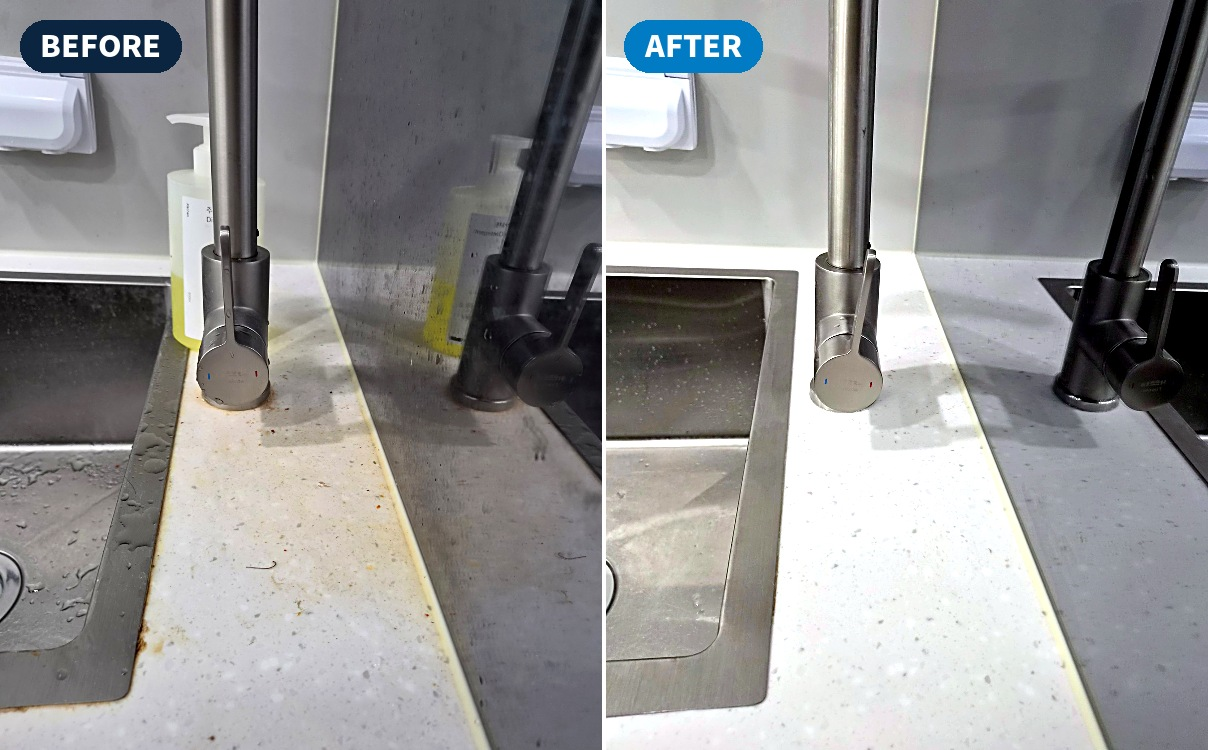
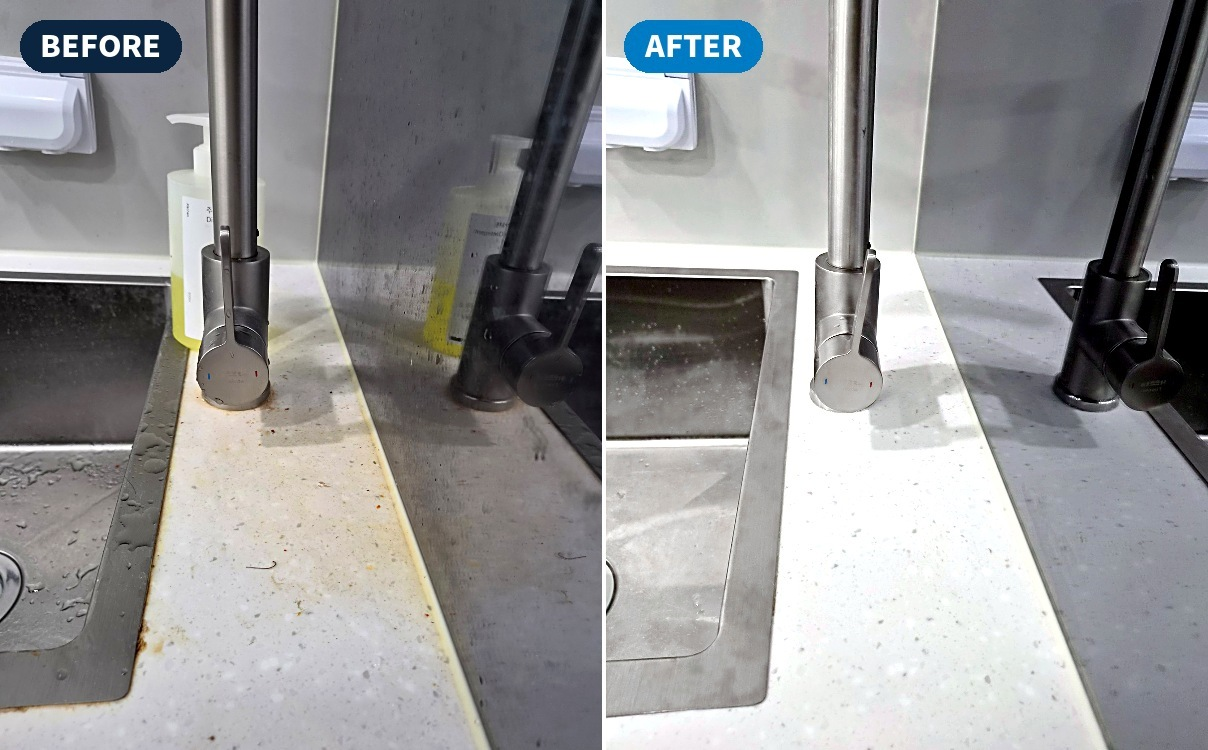
시공사례 7건 에프터 색 보정(누런 기 제거)
Claude-Session: https://claude.ai/code/session_01RMtuDgf6zyg7BwXGJ8nFNg

diff --git a/portfolio.html b/portfolio.html
@@ -31,7 +31,7 @@
   <nav class="mnav" id="mnav" aria-label="모바일 메뉴"><a href="service.html">서비스</a><a href="portfolio.html" class="on" aria-current="page">시공사례</a><a href="price.html">요금안내</a><a href="about.html">회사소개</a><a href="contact.html">문의</a><a href="location.html">서비스 지역</a><a href="notice.html">공지사항</a><a href="https://blog.naver.com/jungdoclean" target="_blank" rel="noopener">블로그</a></nav>
 </header>
 <main><section class="phero"><div class="wrap"><span class="eyebrow">REAL CASES</span><h1>말보다 사진으로 보여드립니다</h1><p class="lead">정도클린이 직접 작업한 실제 현장의 청소 전 · 후 모습입니다.</p><div class="anchors" role="group" aria-label="공간별 보기"><button class="f-tab" data-filter="all" aria-pressed="true">전체 50</button><button class="f-tab" data-filter="bath" aria-pressed="false">욕실 32</button><button class="f-tab" data-filter="kitchen" aria-pressed="false">주방 7</button><button class="f-tab" data-filter="fridge" aria-pressed="false">냉장고 3</button><button class="f-tab" data-filter="balcony" aria-pressed="false">베란다 1</button><button class="f-tab" data-filter="floor" aria-pressed="false">바닥 1</button><button class="f-tab" data-filter="window" aria-pressed="false">창틀 3</button><button class="f-tab" data-filter="cabinet" aria-pressed="false">수납장 1</button><button class="f-tab" data-filter="laundry" aria-pressed="false">세탁기 2</button></div></div></section>
-<section class="sec"><div class="wrap"><div class="pf-grid"><article class="pf" data-cat="bath"><button type="button" data-zoom="샤워부스 배수구 · 배수구 안쪽 · 검은 때 · 줄눈 얼룩 제거" aria-label="샤워부스 배수구 크게 보기"><img src="cases/case-47-drain-hair.jpg?v=261108" alt="샤워부스 배수구 청소 전후 비교" width="1208" height="750" loading="lazy"></button><div class="bd"><div><h3>샤워부스 배수구</h3><p>배수구 안쪽 · 검은 때 · 줄눈 얼룩 제거</p></div><span class="tagpill">욕실</span></div></article><article class="pf" data-cat="bath"><button type="button" data-zoom="변기 안쪽 · 누런 물때 제거" aria-label="변기 안쪽 크게 보기"><img src="cases/case-48-toilet-inner.jpg?v=261108" alt="변기 안쪽 청소 전후 비교" width="1208" height="750" loading="lazy"></button><div class="bd"><div><h3>변기 안쪽</h3><p>누런 물때 제거</p></div><span class="tagpill">욕실</span></div></article><article class="pf" data-cat="kitchen"><button type="button" data-zoom="주방 수전 주변 · 수전 아래 · 카운터 모서리 얼룩 · 물때 제거" aria-label="주방 수전 주변 크게 보기"><img src="cases/case-49-kitchen-faucet-base.jpg?v=261108" alt="주방 수전 주변 청소 전후 비교" width="1208" height="750" loading="lazy"></button><div class="bd"><div><h3>주방 수전 주변</h3><p>수전 아래 · 카운터 모서리 얼룩 · 물때 제거</p></div><span class="tagpill">주방</span></div></article><article class="pf" data-cat="bath"><button type="button" data-zoom="세면대 안쪽 · 노란 얼룩 · 머리카락 제거" aria-label="세면대 안쪽 크게 보기"><img src="cases/case-50-washbasin-inner.jpg?v=261108" alt="세면대 안쪽 청소 전후 비교" width="1208" height="750" loading="lazy"></button><div class="bd"><div><h3>세면대 안쪽</h3><p>노란 얼룩 · 머리카락 제거</p></div><span class="tagpill">욕실</span></div></article><article class="pf" data-cat="bath"><button type="button" data-zoom="욕실 바닥 · 바닥 타일 · 줄눈 · 배수구 주변 때 제거" aria-label="욕실 바닥 크게 보기"><img src="cases/case-51-bath-floor-grout.jpg?v=261108" alt="욕실 바닥 청소 전후 비교" width="1208" height="750" loading="lazy"></button><div class="bd"><div><h3>욕실 바닥</h3><p>바닥 타일 · 줄눈 · 배수구 주변 때 제거</p></div><span class="tagpill">욕실</span></div></article><article class="pf" data-cat="bath"><button type="button" data-zoom="샤워기 선반 · 수전 손잡이 · 선반 안쪽 · 손잡이 얼룩 제거" aria-label="샤워기 선반 · 수전 손잡이 크게 보기"><img src="cases/case-52-shower-shelf-handle.jpg?v=261108" alt="샤워기 선반 · 수전 손잡이 청소 전후 비교" width="1208" height="750" loading="lazy"></button><div class="bd"><div><h3>샤워기 선반 · 수전 손잡이</h3><p>선반 안쪽 · 손잡이 얼룩 제거</p></div><span class="tagpill">욕실</span></div></article><article class="pf" data-cat="bath"><button type="button" data-zoom="코너 선반 · 유리 흐림 제거, 금속 부분 정리" aria-label="코너 선반 크게 보기"><img src="cases/case-53-corner-glass-shelf.jpg?v=261108" alt="코너 선반 청소 전후 비교" width="1208" height="750" loading="lazy"></button><div class="bd"><div><h3>코너 선반</h3><p>유리 흐림 제거, 금속 부분 정리</p></div><span class="tagpill">욕실</span></div></article><article class="pf" data-cat="bath"><button type="button" data-zoom="환풍기 덮개 안쪽 · 먼지 · 얼룩 제거" aria-label="환풍기 덮개 안쪽 크게 보기"><img src="cases/case-46-vent-cover-inner.jpg?v=261106" alt="환풍기 덮개 안쪽 청소 전후 비교" width="1208" height="750" loading="lazy"></button><div class="bd"><div><h3>환풍기 덮개 안쪽</h3><p>먼지 · 얼룩 제거</p></div><span class="tagpill">욕실</span></div></article><article class="pf" data-cat="bath"><button type="button" data-zoom="환풍기 그릴 · 틈새 뭉친 먼지 제거" aria-label="환풍기 그릴 크게 보기"><img src="cases/case-45-vent-grille.jpg?v=261106" alt="환풍기 그릴 청소 전후 비교" width="1208" height="750" loading="lazy"></button><div class="bd"><div><h3>환풍기 그릴</h3><p>틈새 뭉친 먼지 제거</p></div><span class="tagpill">욕실</span></div></article><article class="pf" data-cat="bath"><button type="button" data-zoom="샤워부스 유리 · 물때 제거" aria-label="샤워부스 유리 크게 보기"><img src="cases/case-44-shower-glass-2.jpg?v=261105" alt="샤워부스 유리 물때 청소 전후 비교" width="1208" height="750" loading="lazy"></button><div class="bd"><div><h3>샤워부스 유리</h3><p>물때 제거</p></div><span class="tagpill">욕실</span></div></article><article class="pf" data-cat="kitchen"><button type="button" data-zoom="싱크대 · 물얼룩 · 스크래치 자국 정리" aria-label="싱크대 크게 보기"><img src="cases/case-43-kitchen-sink-4.jpg?v=261105" alt="싱크대 청소 전후 비교" width="1208" height="750" loading="lazy"></button><div class="bd"><div><h3>싱크대</h3><p>물얼룩 · 스크래치 자국 정리</p></div><span class="tagpill">주방</span></div></article><article class="pf" data-cat="laundry"><button type="button" data-zoom="세탁기 세제통 · 가루 잔여물 제거" aria-label="세탁기 세제통 크게 보기"><img src="cases/case-42-washer-detergent.jpg?v=261105" alt="세탁기 세제통 청소 전후 비교" width="1208" height="750" loading="lazy"></button><div class="bd"><div><h3>세탁기 세제통</h3><p>가루 잔여물 제거</p></div><span class="tagpill">세탁기</span></div></article><article class="pf" data-cat="bath"><button type="button" data-zoom="샤워선반 · 얼룩 · 물때 제거" aria-label="샤워선반 크게 보기"><img src="cases/case-41-shower-shelf.jpg?v=261105" alt="샤워선반 청소 전후 비교" width="1208" height="750" loading="lazy"></button><div class="bd"><div><h3>샤워선반</h3><p>얼룩 · 물때 제거</p></div><span class="tagpill">욕실</span></div></article><article class="pf" data-cat="bath"><button type="button" data-zoom="세면대 수전 · 물때 · 얼룩 제거" aria-label="세면대 수전 크게 보기"><img src="cases/case-40-faucet-2.jpg?v=261105" alt="세면대 수전 청소 전후 비교" width="1208" height="750" loading="lazy"></button><div class="bd"><div><h3>세면대 수전</h3><p>물때 · 얼룩 제거</p></div><span class="tagpill">욕실</span></div></article><article class="pf" data-cat="bath"><button type="button" data-zoom="샤워부스 배수구 · 머리카락 · 물때 · 찌든때 제거" aria-label="샤워부스 배수구 크게 보기"><img src="cases/case-01-shower-drain.jpg?v=261026" alt="샤워부스 배수구 청소 전후 비교" width="1208" height="750" loading="lazy"></button><div class="bd"><div><h3>샤워부스 배수구</h3><p>머리카락 · 물때 · 찌든때 제거</p></div><span class="tagpill">욕실</span></div></article><article class="pf" data-cat="bath"><button type="button" data-zoom="샤워부스 배수구 덮개 · 갈색 얼룩 · 찌든때 제거" aria-label="샤워부스 배수구 덮개 크게 보기"><img src="cases/case-30-shower-drain-3.jpg?v=261101" alt="샤워부스 배수구 덮개 청소 전후 비교" width="1208" height="750" loading="lazy"></button><div class="bd"><div><h3>샤워부스 배수구 덮개</h3><p>갈색 얼룩 · 찌든때 제거</p></div><span class="tagpill">욕실</span></div></article><article class="pf" data-cat="bath"><button type="button" data-zoom="세면대 아래 바닥 줄눈 · 줄눈 곰팡이 · 배수구 오염 제거" aria-label="세면대 아래 바닥 줄눈 크게 보기"><img src="cases/case-02-floor-grout.jpg?v=261026" alt="세면대 아래 바닥 줄눈 청소 전후 비교" width="1208" height="750" loading="lazy"></button><div class="bd"><div><h3>세면대 아래 바닥 줄눈</h3><p>줄눈 곰팡이 · 배수구 오염 제거</p></div><span class="tagpill">욕실</span></div></article><article class="pf" data-cat="bath"><button type="button" data-zoom="변기 주변 · 변기 황변 · 바닥 이물질 제거" aria-label="변기 주변 크게 보기"><img src="cases/case-03-toilet.jpg?v=261026" alt="변기 주변 청소 전후 비교" width="1208" height="750" loading="lazy"></button><div class="bd"><div><h3>변기 주변</h3><p>변기 황변 · 바닥 이물질 제거</p></div><span class="tagpill">욕실</span></div></article><article class="pf" data-cat="bath"><button type="button" data-zoom="욕실 전체 · 변기 · 세면대 · 바닥 줄눈" aria-label="욕실 전체 크게 보기"><img src="cases/case-04-bathroom.jpg?v=261026" alt="욕실 전체 청소 전후 비교" width="1208" height="750" loading="lazy"></button><div class="bd"><div><h3>욕실 전체</h3><p>변기 · 세면대 · 바닥 줄눈</p></div><span class="tagpill">욕실</span></div></article><article class="pf" data-cat="bath"><button type="button" data-zoom="욕실 세면대 · 도기 물때 · 수전 광택" aria-label="욕실 세면대 크게 보기"><img src="cases/case-05-washbasin.jpg?v=261026" alt="욕실 세면대 청소 전후 비교" width="1208" height="750" loading="lazy"></button><div class="bd"><div><h3>욕실 세면대</h3><p>도기 물때 · 수전 광택</p></div><span class="tagpill">욕실</span></div></article><article class="pf" data-cat="bath"><button type="button" data-zoom="욕실 코너선반 · 석회 물때 · 찌든때 제거" aria-label="욕실 코너선반 크게 보기"><img src="cases/case-10-corner-shelf.jpg?v=261026" alt="욕실 코너선반 청소 전후 비교" width="1208" height="750" loading="lazy"></button><div class="bd"><div><h3>욕실 코너선반</h3><p>석회 물때 · 찌든때 제거</p></div><span class="tagpill">욕실</span></div></article><article class="pf" data-cat="bath"><button type="button" data-zoom="샤워수전 · 비누받침 · 물때 · 석회 얼룩 제거, 크롬 광택 복원" aria-label="샤워수전 · 비누받침 크게 보기"><img src="cases/case-11-shower-fixture.jpg?v=261026" alt="샤워수전 · 비누받침 청소 전후 비교" width="1208" height="750" loading="lazy"></button><div class="bd"><div><h3>샤워수전 · 비누받침</h3><p>물때 · 석회 얼룩 제거, 크롬 광택 복원</p></div><span class="tagpill">욕실</span></div></article><article class="pf" data-cat="bath"><button type="button" data-zoom="욕실 세면대 상판 · 석회 물때 · 얼룩 제거" aria-label="욕실 세면대 상판 크게 보기"><img src="cases/case-13-vanity-top.jpg?v=261026" alt="욕실 세면대 상판 청소 전후 비교" width="1208" height="750" loading="lazy"></button><div class="bd"><div><h3>욕실 세면대 상판</h3><p>석회 물때 · 얼룩 제거</p></div><span class="tagpill">욕실</span></div></article><article class="pf" data-cat="bath"><button type="button" data-zoom="샤워부 바닥 줄눈 · 줄눈 곰팡이 · 찌든때 제거" aria-label="샤워부 바닥 줄눈 크게 보기"><img src="cases/case-14-shower-floor.jpg?v=261026" alt="샤워부 바닥 줄눈 청소 전후 비교" width="1208" height="750" loading="lazy"></button><div class="bd"><div><h3>샤워부 바닥 줄눈</h3><p>줄눈 곰팡이 · 찌든때 제거</p></div><span class="tagpill">욕실</span></div></article><article class="pf" data-cat="bath"><button type="button" data-zoom="욕실 유리 코너선반 · 물때 · 메탈 얼룩 제거" aria-label="욕실 유리 코너선반 크게 보기"><img src="cases/case-15-glass-shelf.jpg?v=261026" alt="욕실 유리 코너선반 청소 전후 비교" width="1208" height="750" loading="lazy"></button><div class="bd"><div><h3>욕실 유리 코너선반</h3><p>물때 · 메탈 얼룩 제거</p></div><span class="tagpill">욕실</span></div></article><article class="pf" data-cat="bath"><button type="button" data-zoom="샤워부스 유리문 · 석회 물때 · 찌든때 제거" aria-label="샤워부스 유리문 크게 보기"><img src="cases/case-16-shower-glass.jpg?v=261026" alt="샤워부스 유리문 청소 전후 비교" width="1208" height="750" loading="lazy"></button><div class="bd"><div><h3>샤워부스 유리문</h3><p>석회 물때 · 찌든때 제거</p></div><span class="tagpill">욕실</span></div></article><article class="pf" data-cat="bath"><button type="button" data-zoom="욕실 거울장 유리 · 물방울 자국 · 물때 제거" aria-label="욕실 거울장 유리 크게 보기"><img src="cases/case-22-mirror-cabinet.jpg?v=261028" alt="욕실 거울장 유리 청소 전후 비교" width="1208" height="750" loading="lazy"></button><div class="bd"><div><h3>욕실 거울장 유리</h3><p>물방울 자국 · 물때 제거</p></div><span class="tagpill">욕실</span></div></article><article class="pf" data-cat="bath"><button type="button" data-zoom="샤워부스 유리문 · 내부 · 뿌연 물때 제거, 유리 투명도 복원" aria-label="샤워부스 유리문 · 내부 크게 보기"><img src="cases/case-23-shower-glass-door.jpg?v=261028" alt="샤워부스 유리문 · 내부 청소 전후 비교" width="1208" height="750" loading="lazy"></button><div class="bd"><div><h3>샤워부스 유리문 · 내부</h3><p>뿌연 물때 제거, 유리 투명도 복원</p></div><span class="tagpill">욕실</span></div></article><article class="pf" data-cat="bath"><button type="button" data-zoom="샤워수전 · 손잡이 · 물때 · 얼룩 제거, 크롬 광택 복원" aria-label="샤워수전 · 손잡이 크게 보기"><img src="cases/case-24-shower-faucet-handle.jpg?v=261028" alt="샤워수전 · 손잡이 청소 전후 비교" width="1208" height="750" loading="lazy"></button><div class="bd"><div><h3>샤워수전 · 손잡이</h3><p>물때 · 얼룩 제거, 크롬 광택 복원</p></div><span class="tagpill">욕실</span></div></article><article class="pf" data-cat="bath"><button type="button" data-zoom="세면대 수전 · 배수구 · 물때 · 얼룩 제거, 광택 복원" aria-label="세면대 수전 · 배수구 크게 보기"><img src="cases/case-32-faucet.jpg?v=261104" alt="세면대 수전 · 배수구 청소 전후 비교" width="1208" height="750" loading="lazy"></button><div class="bd"><div><h3>세면대 수전 · 배수구</h3><p>물때 · 얼룩 제거, 광택 복원</p></div><span class="tagpill">욕실</span></div></article><article class="pf" data-cat="bath"><button type="button" data-zoom="샤워수전 · 레일 · 물때 · 얼룩 제거, 광택 복원" aria-label="샤워수전 · 레일 크게 보기"><img src="cases/case-33-shower-rail.jpg?v=261104" alt="샤워수전 · 레일 청소 전후 비교" width="1208" height="750" loading="lazy"></button><div class="bd"><div><h3>샤워수전 · 레일</h3><p>물때 · 얼룩 제거, 광택 복원</p></div><span class="tagpill">욕실</span></div></article><article class="pf" data-cat="bath"><button type="button" data-zoom="욕실 배수구 · 바닥 · 머리카락 · 줄눈 · 물때 제거" aria-label="욕실 배수구 · 바닥 크게 보기"><img src="cases/case-39-bath-drain-floor.jpg?v=261105" alt="욕실 배수구 바닥 청소 전후 비교" width="1208" height="750" loading="lazy"></button><div class="bd"><div><h3>욕실 배수구 · 바닥</h3><p>머리카락 · 줄눈 · 물때 제거</p></div><span class="tagpill">욕실</span></div></article><article class="pf" data-cat="bath"><button type="button" data-zoom="샤워부스 구석 타일 · 배수구 · 줄눈 누런 때 · 물때 제거" aria-label="샤워부스 구석 타일 · 배수구 크게 보기"><img src="cases/case-27-shower-corner-tile.jpg?v=261029" alt="샤워부스 구석 타일 · 배수구 청소 전후 비교" width="1208" height="750" loading="lazy"></button><div class="bd"><div><h3>샤워부스 구석 타일 · 배수구</h3><p>줄눈 누런 때 · 물때 제거</p></div><span class="tagpill">욕실</span></div></article><article class="pf" data-cat="bath"><button type="button" data-zoom="환풍구 덮개 · 그릴 · 곰팡이 · 먼지 제거" aria-label="환풍구 덮개 · 그릴 크게 보기"><img src="cases/case-20-vent-cover.jpg?v=261028" alt="환풍구 덮개 · 그릴 청소 전후 비교" width="1208" height="750" loading="lazy"></button><div class="bd"><div><h3>환풍구 덮개 · 그릴</h3><p>곰팡이 · 먼지 제거</p></div><span class="tagpill">욕실</span></div></article><article class="pf" data-cat="bath"><button type="button" data-zoom="환풍구 내부 · 팬 · 곰팡이 · 찌든 먼지 제거" aria-label="환풍구 내부 · 팬 크게 보기"><img src="cases/case-21-vent-fan.jpg?v=261028" alt="환풍구 내부 · 팬 청소 전후 비교" width="1208" height="750" loading="lazy"></button><div class="bd"><div><h3>환풍구 내부 · 팬</h3><p>곰팡이 · 찌든 먼지 제거</p></div><span class="tagpill">욕실</span></div></article><article class="pf" data-cat="kitchen"><button type="button" data-zoom="주방 수전 · 벽면 · 벽면 물때 · 검은 얼룩 제거" aria-label="주방 수전 · 벽면 크게 보기"><img src="cases/case-25-kitchen-faucet-wall.jpg?v=261028" alt="주방 수전 · 벽면 청소 전후 비교" width="1208" height="750" loading="lazy"></button><div class="bd"><div><h3>주방 수전 · 벽면</h3><p>벽면 물때 · 검은 얼룩 제거</p></div><span class="tagpill">주방</span></div></article><article class="pf" data-cat="kitchen"><button type="button" data-zoom="싱크볼 · 수전 · 물때 · 얼룩 제거, 스테인리스 광택 복원" aria-label="싱크볼 · 수전 크게 보기"><img src="cases/case-26-kitchen-sink-lizens.jpg?v=261028" alt="싱크볼 · 수전 청소 전후 비교" width="1208" height="750" loading="lazy"></button><div class="bd"><div><h3>싱크볼 · 수전</h3><p>물때 · 얼룩 제거, 스테인리스 광택 복원</p></div><span class="tagpill">주방</span></div></article><article class="pf" data-cat="kitchen"><button type="button" data-zoom="스테인리스 싱크볼 · 물자국 · 얼룩 제거, 광택 복원" aria-label="스테인리스 싱크볼 크게 보기"><img src="cases/case-12-kitchen-sink-2.jpg?v=261026" alt="스테인리스 싱크볼 청소 전후 비교" width="1208" height="750" loading="lazy"></button><div class="bd"><div><h3>스테인리스 싱크볼</h3><p>물자국 · 얼룩 제거, 광택 복원</p></div><span class="tagpill">주방</span></div></article><article class="pf" data-cat="kitchen"><button type="button" data-zoom="주방 싱크볼 · 배수구 · 음식물 찌꺼기 · 배수구 오염 제거" aria-label="주방 싱크볼 · 배수구 크게 보기"><img src="cases/case-17-kitchen-sink-3.jpg?v=261026" alt="주방 싱크볼 · 배수구 청소 전후 비교" width="1208" height="750" loading="lazy"></button><div class="bd"><div><h3>주방 싱크볼 · 배수구</h3><p>음식물 찌꺼기 · 배수구 오염 제거</p></div><span class="tagpill">주방</span></div></article><article class="pf" data-cat="kitchen"><button type="button" data-zoom="주방 싱크대 상판 · 싱크볼 · 상판 모서리 녹얼룩 · 싱크볼 얼룩 제거" aria-label="주방 싱크대 상판 · 싱크볼 크게 보기"><img src="cases/case-18-kitchen-sink-top.jpg?v=261026" alt="주방 싱크대 상판 · 싱크볼 청소 전후 비교" width="1208" height="750" loading="lazy"></button><div class="bd"><div><h3>주방 싱크대 상판 · 싱크볼</h3><p>상판 모서리 녹얼룩 · 싱크볼 얼룩 제거</p></div><span class="tagpill">주방</span></div></article><article class="pf" data-cat="floor"><button type="button" data-zoom="바닥 타일 · 발자국 · 검은 얼룩 제거" aria-label="바닥 타일 크게 보기"><img src="cases/case-28-floor-tile.jpg?v=261029" alt="바닥 타일 청소 전후 비교" width="1208" height="750" loading="lazy"></button><div class="bd"><div><h3>바닥 타일</h3><p>발자국 · 검은 얼룩 제거</p></div><span class="tagpill">바닥</span></div></article><article class="pf" data-cat="fridge"><button type="button" data-zoom="냉장고 내부 · 선반 · 야채칸 얼룩 제거" aria-label="냉장고 내부 크게 보기"><img src="cases/case-07-fridge.jpg?v=261026" alt="냉장고 내부 청소 전후 비교" width="1208" height="750" loading="lazy"></button><div class="bd"><div><h3>냉장고 내부</h3><p>선반 · 야채칸 얼룩 제거</p></div><span class="tagpill">냉장고</span></div></article><article class="pf" data-cat="fridge"><button type="button" data-zoom="냉장고 내부 · 서랍 · 얼룩 · 오염 제거" aria-label="냉장고 내부 · 서랍 크게 보기"><img src="cases/case-36-fridge-drawer.jpg?v=261104" alt="냉장고 내부 · 서랍 청소 전후 비교" width="1208" height="750" loading="lazy"></button><div class="bd"><div><h3>냉장고 내부 · 서랍</h3><p>얼룩 · 오염 제거</p></div><span class="tagpill">냉장고</span></div></article><article class="pf" data-cat="fridge"><button type="button" data-zoom="냉장고 하단 · 환풍구 · 먼지 · 흙 제거, 걸레받이까지" aria-label="냉장고 하단 · 환풍구 크게 보기"><img src="cases/case-38-fridge-bottom.jpg?v=261105" alt="냉장고 하단 환풍구 청소 전후 비교" width="1208" height="750" loading="lazy"></button><div class="bd"><div><h3>냉장고 하단 · 환풍구</h3><p>먼지 · 흙 제거, 걸레받이까지</p></div><span class="tagpill">냉장고</span></div></article><article class="pf" data-cat="balcony"><button type="button" data-zoom="베란다 통로 · 바닥 얼룩 · 먼지 제거" aria-label="베란다 통로 크게 보기"><img src="cases/case-09-balcony-hall.jpg?v=261026" alt="베란다 통로 청소 전후 비교" width="1208" height="750" loading="lazy"></button><div class="bd"><div><h3>베란다 통로</h3><p>바닥 얼룩 · 먼지 제거</p></div><span class="tagpill">베란다</span></div></article><article class="pf" data-cat="window"><button type="button" data-zoom="창문 레일 · 먼지 · 찌든때 제거, 레일 깨끗이" aria-label="창문 레일 크게 보기"><img src="cases/case-19-window-rail.jpg?v=261026" alt="창문 레일 청소 전후 비교" width="1208" height="750" loading="lazy"></button><div class="bd"><div><h3>창문 레일</h3><p>먼지 · 찌든때 제거, 레일 깨끗이</p></div><span class="tagpill">창틀</span></div></article><article class="pf" data-cat="window"><button type="button" data-zoom="샷시 창틀 · 틈새 · 먼지 · 오염 제거" aria-label="샷시 창틀 · 틈새 크게 보기"><img src="cases/case-34-window-frame.jpg?v=261104" alt="샷시 창틀 · 틈새 청소 전후 비교" width="1208" height="750" loading="lazy"></button><div class="bd"><div><h3>샷시 창틀 · 틈새</h3><p>먼지 · 오염 제거</p></div><span class="tagpill">창틀</span></div></article><article class="pf" data-cat="window"><button type="button" data-zoom="방충망 창틀 레일 · 먼지 · 물때 제거" aria-label="방충망 창틀 레일 크게 보기"><img src="cases/case-35-window-rail.jpg?v=261104" alt="방충망 창틀 레일 청소 전후 비교" width="1208" height="750" loading="lazy"></button><div class="bd"><div><h3>방충망 창틀 레일</h3><p>먼지 · 물때 제거</p></div><span class="tagpill">창틀</span></div></article><article class="pf" data-cat="cabinet"><button type="button" data-zoom="수납장 선반 · 자국 · 얼룩 제거" aria-label="수납장 선반 크게 보기"><img src="cases/case-31-shelf-residue.jpg?v=261101" alt="수납장 선반 청소 전후 비교" width="1208" height="750" loading="lazy"></button><div class="bd"><div><h3>수납장 선반</h3><p>자국 · 얼룩 제거</p></div><span class="tagpill">수납장</span></div></article><article class="pf" data-cat="laundry"><button type="button" data-zoom="세탁기 세제함 · 찌든때 · 곰팡이 제거" aria-label="세탁기 세제함 크게 보기"><img src="cases/case-37-washer-drawer.jpg?v=261104" alt="세탁기 세제함 청소 전후 비교" width="1208" height="750" loading="lazy"></button><div class="bd"><div><h3>세탁기 세제함</h3><p>찌든때 · 곰팡이 제거</p></div><span class="tagpill">세탁기</span></div></article></div><p class="pf-note">사진을 누르면 크게 볼 수 있습니다</p><div class="pf-cta"><p>이 사진처럼, 우리 집도 깨끗하게</p><div class="acts"><a class="btn btn-primary tel" href="tel:010-8209-6615">전화로 견적 받기</a><a class="btn btn-ghost sms" href="sms:010-8209-6615">문자로 사진 보내기</a><a class="btn btn-ghost" href="https://blog.naver.com/jungdoclean" target="_blank" rel="noopener">블로그에서 더 보기</a></div></div></div></section>
+<section class="sec"><div class="wrap"><div class="pf-grid"><article class="pf" data-cat="bath"><button type="button" data-zoom="샤워부스 배수구 · 배수구 안쪽 · 검은 때 · 줄눈 얼룩 제거" aria-label="샤워부스 배수구 크게 보기"><img src="cases/case-47-drain-hair.jpg?v=261108b" alt="샤워부스 배수구 청소 전후 비교" width="1208" height="750" loading="lazy"></button><div class="bd"><div><h3>샤워부스 배수구</h3><p>배수구 안쪽 · 검은 때 · 줄눈 얼룩 제거</p></div><span class="tagpill">욕실</span></div></article><article class="pf" data-cat="bath"><button type="button" data-zoom="변기 안쪽 · 누런 물때 제거" aria-label="변기 안쪽 크게 보기"><img src="cases/case-48-toilet-inner.jpg?v=261108b" alt="변기 안쪽 청소 전후 비교" width="1208" height="750" loading="lazy"></button><div class="bd"><div><h3>변기 안쪽</h3><p>누런 물때 제거</p></div><span class="tagpill">욕실</span></div></article><article class="pf" data-cat="kitchen"><button type="button" data-zoom="주방 수전 주변 · 수전 아래 · 카운터 모서리 얼룩 · 물때 제거" aria-label="주방 수전 주변 크게 보기"><img src="cases/case-49-kitchen-faucet-base.jpg?v=261108b" alt="주방 수전 주변 청소 전후 비교" width="1208" height="750" loading="lazy"></button><div class="bd"><div><h3>주방 수전 주변</h3><p>수전 아래 · 카운터 모서리 얼룩 · 물때 제거</p></div><span class="tagpill">주방</span></div></article><article class="pf" data-cat="bath"><button type="button" data-zoom="세면대 안쪽 · 노란 얼룩 · 머리카락 제거" aria-label="세면대 안쪽 크게 보기"><img src="cases/case-50-washbasin-inner.jpg?v=261108b" alt="세면대 안쪽 청소 전후 비교" width="1208" height="750" loading="lazy"></button><div class="bd"><div><h3>세면대 안쪽</h3><p>노란 얼룩 · 머리카락 제거</p></div><span class="tagpill">욕실</span></div></article><article class="pf" data-cat="bath"><button type="button" data-zoom="욕실 바닥 · 바닥 타일 · 줄눈 · 배수구 주변 때 제거" aria-label="욕실 바닥 크게 보기"><img src="cases/case-51-bath-floor-grout.jpg?v=261108b" alt="욕실 바닥 청소 전후 비교" width="1208" height="750" loading="lazy"></button><div class="bd"><div><h3>욕실 바닥</h3><p>바닥 타일 · 줄눈 · 배수구 주변 때 제거</p></div><span class="tagpill">욕실</span></div></article><article class="pf" data-cat="bath"><button type="button" data-zoom="샤워기 선반 · 수전 손잡이 · 선반 안쪽 · 손잡이 얼룩 제거" aria-label="샤워기 선반 · 수전 손잡이 크게 보기"><img src="cases/case-52-shower-shelf-handle.jpg?v=261108b" alt="샤워기 선반 · 수전 손잡이 청소 전후 비교" width="1208" height="750" loading="lazy"></button><div class="bd"><div><h3>샤워기 선반 · 수전 손잡이</h3><p>선반 안쪽 · 손잡이 얼룩 제거</p></div><span class="tagpill">욕실</span></div></article><article class="pf" data-cat="bath"><button type="button" data-zoom="코너 선반 · 유리 흐림 제거, 금속 부분 정리" aria-label="코너 선반 크게 보기"><img src="cases/case-53-corner-glass-shelf.jpg?v=261108b" alt="코너 선반 청소 전후 비교" width="1208" height="750" loading="lazy"></button><div class="bd"><div><h3>코너 선반</h3><p>유리 흐림 제거, 금속 부분 정리</p></div><span class="tagpill">욕실</span></div></article><article class="pf" data-cat="bath"><button type="button" data-zoom="환풍기 덮개 안쪽 · 먼지 · 얼룩 제거" aria-label="환풍기 덮개 안쪽 크게 보기"><img src="cases/case-46-vent-cover-inner.jpg?v=261106" alt="환풍기 덮개 안쪽 청소 전후 비교" width="1208" height="750" loading="lazy"></button><div class="bd"><div><h3>환풍기 덮개 안쪽</h3><p>먼지 · 얼룩 제거</p></div><span class="tagpill">욕실</span></div></article><article class="pf" data-cat="bath"><button type="button" data-zoom="환풍기 그릴 · 틈새 뭉친 먼지 제거" aria-label="환풍기 그릴 크게 보기"><img src="cases/case-45-vent-grille.jpg?v=261106" alt="환풍기 그릴 청소 전후 비교" width="1208" height="750" loading="lazy"></button><div class="bd"><div><h3>환풍기 그릴</h3><p>틈새 뭉친 먼지 제거</p></div><span class="tagpill">욕실</span></div></article><article class="pf" data-cat="bath"><button type="button" data-zoom="샤워부스 유리 · 물때 제거" aria-label="샤워부스 유리 크게 보기"><img src="cases/case-44-shower-glass-2.jpg?v=261105" alt="샤워부스 유리 물때 청소 전후 비교" width="1208" height="750" loading="lazy"></button><div class="bd"><div><h3>샤워부스 유리</h3><p>물때 제거</p></div><span class="tagpill">욕실</span></div></article><article class="pf" data-cat="kitchen"><button type="button" data-zoom="싱크대 · 물얼룩 · 스크래치 자국 정리" aria-label="싱크대 크게 보기"><img src="cases/case-43-kitchen-sink-4.jpg?v=261105" alt="싱크대 청소 전후 비교" width="1208" height="750" loading="lazy"></button><div class="bd"><div><h3>싱크대</h3><p>물얼룩 · 스크래치 자국 정리</p></div><span class="tagpill">주방</span></div></article><article class="pf" data-cat="laundry"><button type="button" data-zoom="세탁기 세제통 · 가루 잔여물 제거" aria-label="세탁기 세제통 크게 보기"><img src="cases/case-42-washer-detergent.jpg?v=261105" alt="세탁기 세제통 청소 전후 비교" width="1208" height="750" loading="lazy"></button><div class="bd"><div><h3>세탁기 세제통</h3><p>가루 잔여물 제거</p></div><span class="tagpill">세탁기</span></div></article><article class="pf" data-cat="bath"><button type="button" data-zoom="샤워선반 · 얼룩 · 물때 제거" aria-label="샤워선반 크게 보기"><img src="cases/case-41-shower-shelf.jpg?v=261105" alt="샤워선반 청소 전후 비교" width="1208" height="750" loading="lazy"></button><div class="bd"><div><h3>샤워선반</h3><p>얼룩 · 물때 제거</p></div><span class="tagpill">욕실</span></div></article><article class="pf" data-cat="bath"><button type="button" data-zoom="세면대 수전 · 물때 · 얼룩 제거" aria-label="세면대 수전 크게 보기"><img src="cases/case-40-faucet-2.jpg?v=261105" alt="세면대 수전 청소 전후 비교" width="1208" height="750" loading="lazy"></button><div class="bd"><div><h3>세면대 수전</h3><p>물때 · 얼룩 제거</p></div><span class="tagpill">욕실</span></div></article><article class="pf" data-cat="bath"><button type="button" data-zoom="샤워부스 배수구 · 머리카락 · 물때 · 찌든때 제거" aria-label="샤워부스 배수구 크게 보기"><img src="cases/case-01-shower-drain.jpg?v=261026" alt="샤워부스 배수구 청소 전후 비교" width="1208" height="750" loading="lazy"></button><div class="bd"><div><h3>샤워부스 배수구</h3><p>머리카락 · 물때 · 찌든때 제거</p></div><span class="tagpill">욕실</span></div></article><article class="pf" data-cat="bath"><button type="button" data-zoom="샤워부스 배수구 덮개 · 갈색 얼룩 · 찌든때 제거" aria-label="샤워부스 배수구 덮개 크게 보기"><img src="cases/case-30-shower-drain-3.jpg?v=261101" alt="샤워부스 배수구 덮개 청소 전후 비교" width="1208" height="750" loading="lazy"></button><div class="bd"><div><h3>샤워부스 배수구 덮개</h3><p>갈색 얼룩 · 찌든때 제거</p></div><span class="tagpill">욕실</span></div></article><article class="pf" data-cat="bath"><button type="button" data-zoom="세면대 아래 바닥 줄눈 · 줄눈 곰팡이 · 배수구 오염 제거" aria-label="세면대 아래 바닥 줄눈 크게 보기"><img src="cases/case-02-floor-grout.jpg?v=261026" alt="세면대 아래 바닥 줄눈 청소 전후 비교" width="1208" height="750" loading="lazy"></button><div class="bd"><div><h3>세면대 아래 바닥 줄눈</h3><p>줄눈 곰팡이 · 배수구 오염 제거</p></div><span class="tagpill">욕실</span></div></article><article class="pf" data-cat="bath"><button type="button" data-zoom="변기 주변 · 변기 황변 · 바닥 이물질 제거" aria-label="변기 주변 크게 보기"><img src="cases/case-03-toilet.jpg?v=261026" alt="변기 주변 청소 전후 비교" width="1208" height="750" loading="lazy"></button><div class="bd"><div><h3>변기 주변</h3><p>변기 황변 · 바닥 이물질 제거</p></div><span class="tagpill">욕실</span></div></article><article class="pf" data-cat="bath"><button type="button" data-zoom="욕실 전체 · 변기 · 세면대 · 바닥 줄눈" aria-label="욕실 전체 크게 보기"><img src="cases/case-04-bathroom.jpg?v=261026" alt="욕실 전체 청소 전후 비교" width="1208" height="750" loading="lazy"></button><div class="bd"><div><h3>욕실 전체</h3><p>변기 · 세면대 · 바닥 줄눈</p></div><span class="tagpill">욕실</span></div></article><article class="pf" data-cat="bath"><button type="button" data-zoom="욕실 세면대 · 도기 물때 · 수전 광택" aria-label="욕실 세면대 크게 보기"><img src="cases/case-05-washbasin.jpg?v=261026" alt="욕실 세면대 청소 전후 비교" width="1208" height="750" loading="lazy"></button><div class="bd"><div><h3>욕실 세면대</h3><p>도기 물때 · 수전 광택</p></div><span class="tagpill">욕실</span></div></article><article class="pf" data-cat="bath"><button type="button" data-zoom="욕실 코너선반 · 석회 물때 · 찌든때 제거" aria-label="욕실 코너선반 크게 보기"><img src="cases/case-10-corner-shelf.jpg?v=261026" alt="욕실 코너선반 청소 전후 비교" width="1208" height="750" loading="lazy"></button><div class="bd"><div><h3>욕실 코너선반</h3><p>석회 물때 · 찌든때 제거</p></div><span class="tagpill">욕실</span></div></article><article class="pf" data-cat="bath"><button type="button" data-zoom="샤워수전 · 비누받침 · 물때 · 석회 얼룩 제거, 크롬 광택 복원" aria-label="샤워수전 · 비누받침 크게 보기"><img src="cases/case-11-shower-fixture.jpg?v=261026" alt="샤워수전 · 비누받침 청소 전후 비교" width="1208" height="750" loading="lazy"></button><div class="bd"><div><h3>샤워수전 · 비누받침</h3><p>물때 · 석회 얼룩 제거, 크롬 광택 복원</p></div><span class="tagpill">욕실</span></div></article><article class="pf" data-cat="bath"><button type="button" data-zoom="욕실 세면대 상판 · 석회 물때 · 얼룩 제거" aria-label="욕실 세면대 상판 크게 보기"><img src="cases/case-13-vanity-top.jpg?v=261026" alt="욕실 세면대 상판 청소 전후 비교" width="1208" height="750" loading="lazy"></button><div class="bd"><div><h3>욕실 세면대 상판</h3><p>석회 물때 · 얼룩 제거</p></div><span class="tagpill">욕실</span></div></article><article class="pf" data-cat="bath"><button type="button" data-zoom="샤워부 바닥 줄눈 · 줄눈 곰팡이 · 찌든때 제거" aria-label="샤워부 바닥 줄눈 크게 보기"><img src="cases/case-14-shower-floor.jpg?v=261026" alt="샤워부 바닥 줄눈 청소 전후 비교" width="1208" height="750" loading="lazy"></button><div class="bd"><div><h3>샤워부 바닥 줄눈</h3><p>줄눈 곰팡이 · 찌든때 제거</p></div><span class="tagpill">욕실</span></div></article><article class="pf" data-cat="bath"><button type="button" data-zoom="욕실 유리 코너선반 · 물때 · 메탈 얼룩 제거" aria-label="욕실 유리 코너선반 크게 보기"><img src="cases/case-15-glass-shelf.jpg?v=261026" alt="욕실 유리 코너선반 청소 전후 비교" width="1208" height="750" loading="lazy"></button><div class="bd"><div><h3>욕실 유리 코너선반</h3><p>물때 · 메탈 얼룩 제거</p></div><span class="tagpill">욕실</span></div></article><article class="pf" data-cat="bath"><button type="button" data-zoom="샤워부스 유리문 · 석회 물때 · 찌든때 제거" aria-label="샤워부스 유리문 크게 보기"><img src="cases/case-16-shower-glass.jpg?v=261026" alt="샤워부스 유리문 청소 전후 비교" width="1208" height="750" loading="lazy"></button><div class="bd"><div><h3>샤워부스 유리문</h3><p>석회 물때 · 찌든때 제거</p></div><span class="tagpill">욕실</span></div></article><article class="pf" data-cat="bath"><button type="button" data-zoom="욕실 거울장 유리 · 물방울 자국 · 물때 제거" aria-label="욕실 거울장 유리 크게 보기"><img src="cases/case-22-mirror-cabinet.jpg?v=261028" alt="욕실 거울장 유리 청소 전후 비교" width="1208" height="750" loading="lazy"></button><div class="bd"><div><h3>욕실 거울장 유리</h3><p>물방울 자국 · 물때 제거</p></div><span class="tagpill">욕실</span></div></article><article class="pf" data-cat="bath"><button type="button" data-zoom="샤워부스 유리문 · 내부 · 뿌연 물때 제거, 유리 투명도 복원" aria-label="샤워부스 유리문 · 내부 크게 보기"><img src="cases/case-23-shower-glass-door.jpg?v=261028" alt="샤워부스 유리문 · 내부 청소 전후 비교" width="1208" height="750" loading="lazy"></button><div class="bd"><div><h3>샤워부스 유리문 · 내부</h3><p>뿌연 물때 제거, 유리 투명도 복원</p></div><span class="tagpill">욕실</span></div></article><article class="pf" data-cat="bath"><button type="button" data-zoom="샤워수전 · 손잡이 · 물때 · 얼룩 제거, 크롬 광택 복원" aria-label="샤워수전 · 손잡이 크게 보기"><img src="cases/case-24-shower-faucet-handle.jpg?v=261028" alt="샤워수전 · 손잡이 청소 전후 비교" width="1208" height="750" loading="lazy"></button><div class="bd"><div><h3>샤워수전 · 손잡이</h3><p>물때 · 얼룩 제거, 크롬 광택 복원</p></div><span class="tagpill">욕실</span></div></article><article class="pf" data-cat="bath"><button type="button" data-zoom="세면대 수전 · 배수구 · 물때 · 얼룩 제거, 광택 복원" aria-label="세면대 수전 · 배수구 크게 보기"><img src="cases/case-32-faucet.jpg?v=261104" alt="세면대 수전 · 배수구 청소 전후 비교" width="1208" height="750" loading="lazy"></button><div class="bd"><div><h3>세면대 수전 · 배수구</h3><p>물때 · 얼룩 제거, 광택 복원</p></div><span class="tagpill">욕실</span></div></article><article class="pf" data-cat="bath"><button type="button" data-zoom="샤워수전 · 레일 · 물때 · 얼룩 제거, 광택 복원" aria-label="샤워수전 · 레일 크게 보기"><img src="cases/case-33-shower-rail.jpg?v=261104" alt="샤워수전 · 레일 청소 전후 비교" width="1208" height="750" loading="lazy"></button><div class="bd"><div><h3>샤워수전 · 레일</h3><p>물때 · 얼룩 제거, 광택 복원</p></div><span class="tagpill">욕실</span></div></article><article class="pf" data-cat="bath"><button type="button" data-zoom="욕실 배수구 · 바닥 · 머리카락 · 줄눈 · 물때 제거" aria-label="욕실 배수구 · 바닥 크게 보기"><img src="cases/case-39-bath-drain-floor.jpg?v=261105" alt="욕실 배수구 바닥 청소 전후 비교" width="1208" height="750" loading="lazy"></button><div class="bd"><div><h3>욕실 배수구 · 바닥</h3><p>머리카락 · 줄눈 · 물때 제거</p></div><span class="tagpill">욕실</span></div></article><article class="pf" data-cat="bath"><button type="button" data-zoom="샤워부스 구석 타일 · 배수구 · 줄눈 누런 때 · 물때 제거" aria-label="샤워부스 구석 타일 · 배수구 크게 보기"><img src="cases/case-27-shower-corner-tile.jpg?v=261029" alt="샤워부스 구석 타일 · 배수구 청소 전후 비교" width="1208" height="750" loading="lazy"></button><div class="bd"><div><h3>샤워부스 구석 타일 · 배수구</h3><p>줄눈 누런 때 · 물때 제거</p></div><span class="tagpill">욕실</span></div></article><article class="pf" data-cat="bath"><button type="button" data-zoom="환풍구 덮개 · 그릴 · 곰팡이 · 먼지 제거" aria-label="환풍구 덮개 · 그릴 크게 보기"><img src="cases/case-20-vent-cover.jpg?v=261028" alt="환풍구 덮개 · 그릴 청소 전후 비교" width="1208" height="750" loading="lazy"></button><div class="bd"><div><h3>환풍구 덮개 · 그릴</h3><p>곰팡이 · 먼지 제거</p></div><span class="tagpill">욕실</span></div></article><article class="pf" data-cat="bath"><button type="button" data-zoom="환풍구 내부 · 팬 · 곰팡이 · 찌든 먼지 제거" aria-label="환풍구 내부 · 팬 크게 보기"><img src="cases/case-21-vent-fan.jpg?v=261028" alt="환풍구 내부 · 팬 청소 전후 비교" width="1208" height="750" loading="lazy"></button><div class="bd"><div><h3>환풍구 내부 · 팬</h3><p>곰팡이 · 찌든 먼지 제거</p></div><span class="tagpill">욕실</span></div></article><article class="pf" data-cat="kitchen"><button type="button" data-zoom="주방 수전 · 벽면 · 벽면 물때 · 검은 얼룩 제거" aria-label="주방 수전 · 벽면 크게 보기"><img src="cases/case-25-kitchen-faucet-wall.jpg?v=261028" alt="주방 수전 · 벽면 청소 전후 비교" width="1208" height="750" loading="lazy"></button><div class="bd"><div><h3>주방 수전 · 벽면</h3><p>벽면 물때 · 검은 얼룩 제거</p></div><span class="tagpill">주방</span></div></article><article class="pf" data-cat="kitchen"><button type="button" data-zoom="싱크볼 · 수전 · 물때 · 얼룩 제거, 스테인리스 광택 복원" aria-label="싱크볼 · 수전 크게 보기"><img src="cases/case-26-kitchen-sink-lizens.jpg?v=261028" alt="싱크볼 · 수전 청소 전후 비교" width="1208" height="750" loading="lazy"></button><div class="bd"><div><h3>싱크볼 · 수전</h3><p>물때 · 얼룩 제거, 스테인리스 광택 복원</p></div><span class="tagpill">주방</span></div></article><article class="pf" data-cat="kitchen"><button type="button" data-zoom="스테인리스 싱크볼 · 물자국 · 얼룩 제거, 광택 복원" aria-label="스테인리스 싱크볼 크게 보기"><img src="cases/case-12-kitchen-sink-2.jpg?v=261026" alt="스테인리스 싱크볼 청소 전후 비교" width="1208" height="750" loading="lazy"></button><div class="bd"><div><h3>스테인리스 싱크볼</h3><p>물자국 · 얼룩 제거, 광택 복원</p></div><span class="tagpill">주방</span></div></article><article class="pf" data-cat="kitchen"><button type="button" data-zoom="주방 싱크볼 · 배수구 · 음식물 찌꺼기 · 배수구 오염 제거" aria-label="주방 싱크볼 · 배수구 크게 보기"><img src="cases/case-17-kitchen-sink-3.jpg?v=261026" alt="주방 싱크볼 · 배수구 청소 전후 비교" width="1208" height="750" loading="lazy"></button><div class="bd"><div><h3>주방 싱크볼 · 배수구</h3><p>음식물 찌꺼기 · 배수구 오염 제거</p></div><span class="tagpill">주방</span></div></article><article class="pf" data-cat="kitchen"><button type="button" data-zoom="주방 싱크대 상판 · 싱크볼 · 상판 모서리 녹얼룩 · 싱크볼 얼룩 제거" aria-label="주방 싱크대 상판 · 싱크볼 크게 보기"><img src="cases/case-18-kitchen-sink-top.jpg?v=261026" alt="주방 싱크대 상판 · 싱크볼 청소 전후 비교" width="1208" height="750" loading="lazy"></button><div class="bd"><div><h3>주방 싱크대 상판 · 싱크볼</h3><p>상판 모서리 녹얼룩 · 싱크볼 얼룩 제거</p></div><span class="tagpill">주방</span></div></article><article class="pf" data-cat="floor"><button type="button" data-zoom="바닥 타일 · 발자국 · 검은 얼룩 제거" aria-label="바닥 타일 크게 보기"><img src="cases/case-28-floor-tile.jpg?v=261029" alt="바닥 타일 청소 전후 비교" width="1208" height="750" loading="lazy"></button><div class="bd"><div><h3>바닥 타일</h3><p>발자국 · 검은 얼룩 제거</p></div><span class="tagpill">바닥</span></div></article><article class="pf" data-cat="fridge"><button type="button" data-zoom="냉장고 내부 · 선반 · 야채칸 얼룩 제거" aria-label="냉장고 내부 크게 보기"><img src="cases/case-07-fridge.jpg?v=261026" alt="냉장고 내부 청소 전후 비교" width="1208" height="750" loading="lazy"></button><div class="bd"><div><h3>냉장고 내부</h3><p>선반 · 야채칸 얼룩 제거</p></div><span class="tagpill">냉장고</span></div></article><article class="pf" data-cat="fridge"><button type="button" data-zoom="냉장고 내부 · 서랍 · 얼룩 · 오염 제거" aria-label="냉장고 내부 · 서랍 크게 보기"><img src="cases/case-36-fridge-drawer.jpg?v=261104" alt="냉장고 내부 · 서랍 청소 전후 비교" width="1208" height="750" loading="lazy"></button><div class="bd"><div><h3>냉장고 내부 · 서랍</h3><p>얼룩 · 오염 제거</p></div><span class="tagpill">냉장고</span></div></article><article class="pf" data-cat="fridge"><button type="button" data-zoom="냉장고 하단 · 환풍구 · 먼지 · 흙 제거, 걸레받이까지" aria-label="냉장고 하단 · 환풍구 크게 보기"><img src="cases/case-38-fridge-bottom.jpg?v=261105" alt="냉장고 하단 환풍구 청소 전후 비교" width="1208" height="750" loading="lazy"></button><div class="bd"><div><h3>냉장고 하단 · 환풍구</h3><p>먼지 · 흙 제거, 걸레받이까지</p></div><span class="tagpill">냉장고</span></div></article><article class="pf" data-cat="balcony"><button type="button" data-zoom="베란다 통로 · 바닥 얼룩 · 먼지 제거" aria-label="베란다 통로 크게 보기"><img src="cases/case-09-balcony-hall.jpg?v=261026" alt="베란다 통로 청소 전후 비교" width="1208" height="750" loading="lazy"></button><div class="bd"><div><h3>베란다 통로</h3><p>바닥 얼룩 · 먼지 제거</p></div><span class="tagpill">베란다</span></div></article><article class="pf" data-cat="window"><button type="button" data-zoom="창문 레일 · 먼지 · 찌든때 제거, 레일 깨끗이" aria-label="창문 레일 크게 보기"><img src="cases/case-19-window-rail.jpg?v=261026" alt="창문 레일 청소 전후 비교" width="1208" height="750" loading="lazy"></button><div class="bd"><div><h3>창문 레일</h3><p>먼지 · 찌든때 제거, 레일 깨끗이</p></div><span class="tagpill">창틀</span></div></article><article class="pf" data-cat="window"><button type="button" data-zoom="샷시 창틀 · 틈새 · 먼지 · 오염 제거" aria-label="샷시 창틀 · 틈새 크게 보기"><img src="cases/case-34-window-frame.jpg?v=261104" alt="샷시 창틀 · 틈새 청소 전후 비교" width="1208" height="750" loading="lazy"></button><div class="bd"><div><h3>샷시 창틀 · 틈새</h3><p>먼지 · 오염 제거</p></div><span class="tagpill">창틀</span></div></article><article class="pf" data-cat="window"><button type="button" data-zoom="방충망 창틀 레일 · 먼지 · 물때 제거" aria-label="방충망 창틀 레일 크게 보기"><img src="cases/case-35-window-rail.jpg?v=261104" alt="방충망 창틀 레일 청소 전후 비교" width="1208" height="750" loading="lazy"></button><div class="bd"><div><h3>방충망 창틀 레일</h3><p>먼지 · 물때 제거</p></div><span class="tagpill">창틀</span></div></article><article class="pf" data-cat="cabinet"><button type="button" data-zoom="수납장 선반 · 자국 · 얼룩 제거" aria-label="수납장 선반 크게 보기"><img src="cases/case-31-shelf-residue.jpg?v=261101" alt="수납장 선반 청소 전후 비교" width="1208" height="750" loading="lazy"></button><div class="bd"><div><h3>수납장 선반</h3><p>자국 · 얼룩 제거</p></div><span class="tagpill">수납장</span></div></article><article class="pf" data-cat="laundry"><button type="button" data-zoom="세탁기 세제함 · 찌든때 · 곰팡이 제거" aria-label="세탁기 세제함 크게 보기"><img src="cases/case-37-washer-drawer.jpg?v=261104" alt="세탁기 세제함 청소 전후 비교" width="1208" height="750" loading="lazy"></button><div class="bd"><div><h3>세탁기 세제함</h3><p>찌든때 · 곰팡이 제거</p></div><span class="tagpill">세탁기</span></div></article></div><p class="pf-note">사진을 누르면 크게 볼 수 있습니다</p><div class="pf-cta"><p>이 사진처럼, 우리 집도 깨끗하게</p><div class="acts"><a class="btn btn-primary tel" href="tel:010-8209-6615">전화로 견적 받기</a><a class="btn btn-ghost sms" href="sms:010-8209-6615">문자로 사진 보내기</a><a class="btn btn-ghost" href="https://blog.naver.com/jungdoclean" target="_blank" rel="noopener">블로그에서 더 보기</a></div></div></div></section>
 </main>
 <section class="cta">
   <div class="wrap">
